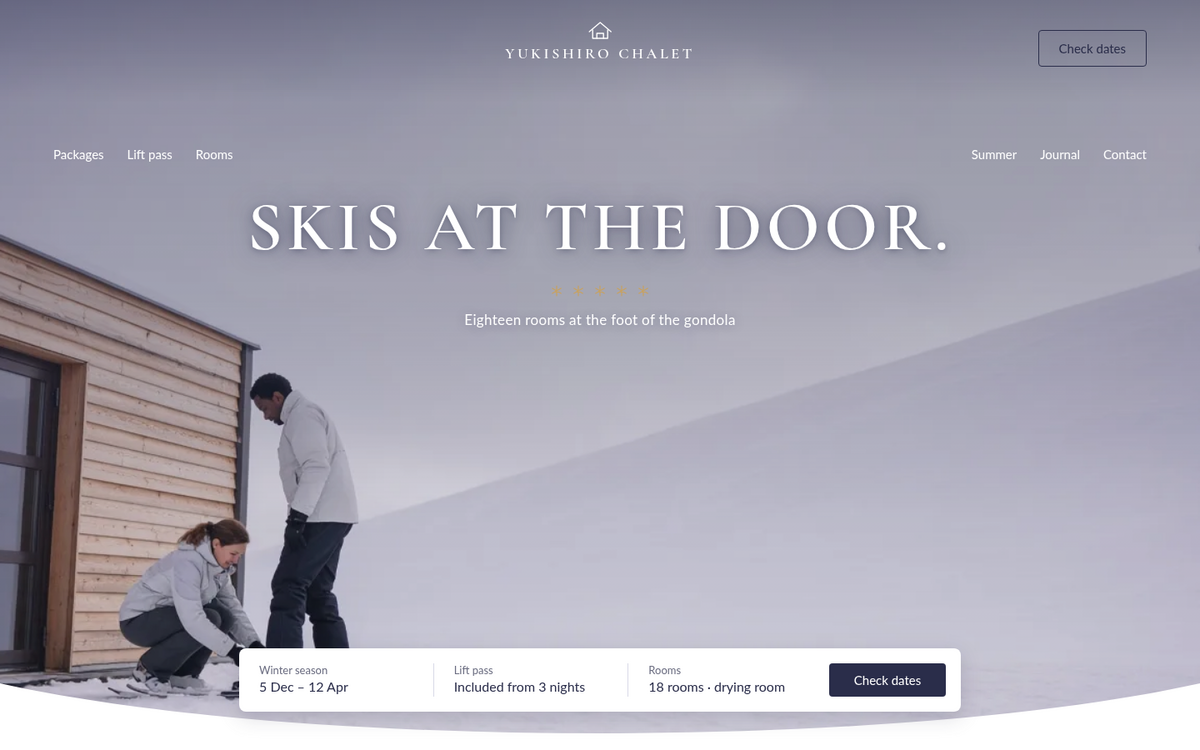
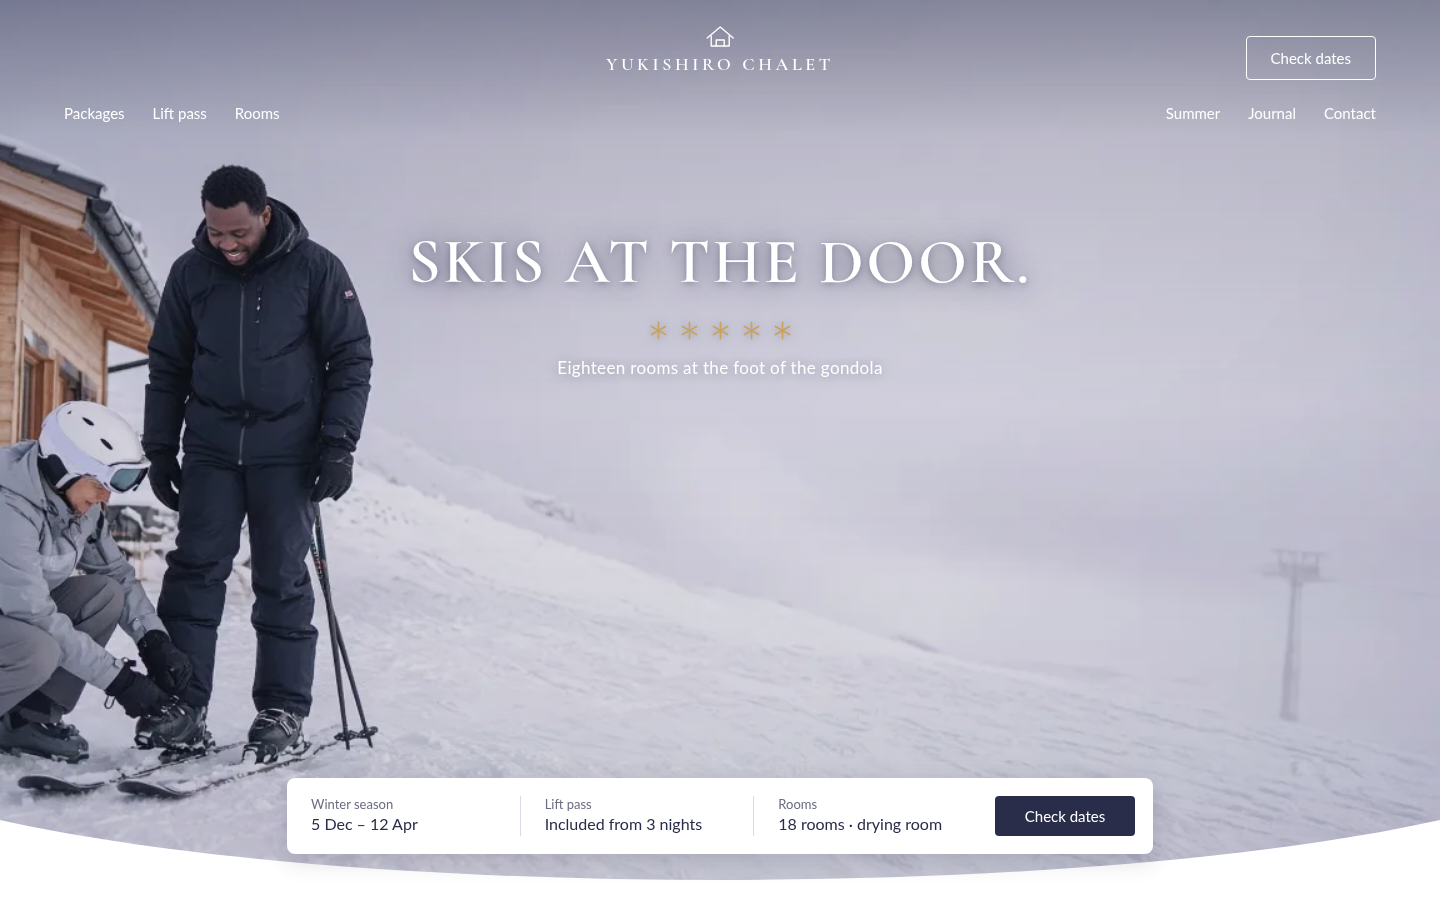
Yukishiro Chalet: stage-2 fix — hero H1 sized clear of subject, motion+gates re-run, screenshot refreshed

diff --git a/themes/yukishiro-chalet/style.css b/themes/yukishiro-chalet/style.css
@@ -98,7 +98,7 @@ a { text-underline-offset: .2em; }
 .yk-hero .wp-block-cover__background { opacity: 1 !important; background: linear-gradient(180deg, rgba(42, 45, 74, .28) 0%, rgba(42, 45, 74, .10) 45%, rgba(42, 45, 74, .18) 100%) !important; }
 .yk-hero .wp-block-cover__inner-container { position: relative; z-index: 2; text-align: center; padding: 228px 24px 0; width: 100%; }
 .yk-hero .wp-block-cover__inner-container > * { max-width: 1200px; margin-left: auto; margin-right: auto; }
-.yk-h1 { font-family: var(--yk-display); font-weight: 600; font-size: 4.5rem; line-height: 1.05; letter-spacing: .05em; text-transform: uppercase; color: #fff !important; text-shadow: 0 1px 28px rgba(42, 45, 74, .7), 0 2px 6px rgba(42, 45, 74, .35); }
+.yk-h1 { font-family: var(--yk-display); font-weight: 600; font-size: 4rem; line-height: 1.05; letter-spacing: .04em; text-transform: uppercase; color: #fff !important; text-shadow: 0 1px 28px rgba(42, 45, 74, .7), 0 2px 6px rgba(42, 45, 74, .35); }
 .yk-glyphs { display: flex; justify-content: center; gap: 12px; margin: 26px 0 12px; line-height: 0; }
 .yk-hero__line { color: #fff; font-size: 1.0625rem; letter-spacing: .02em; text-shadow: 0 1px 12px rgba(42, 45, 74, .35); }
 .yk-seam { position: relative; z-index: 2; display: block; width: 100%; height: 120px; margin-top: -120px; pointer-events: none; }
